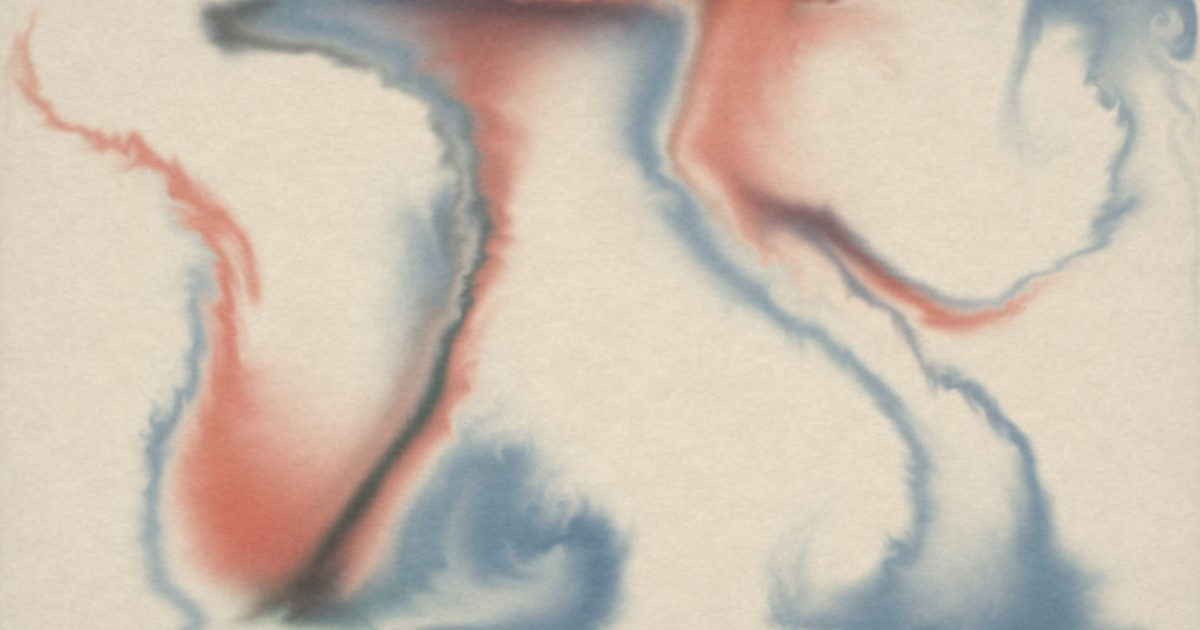
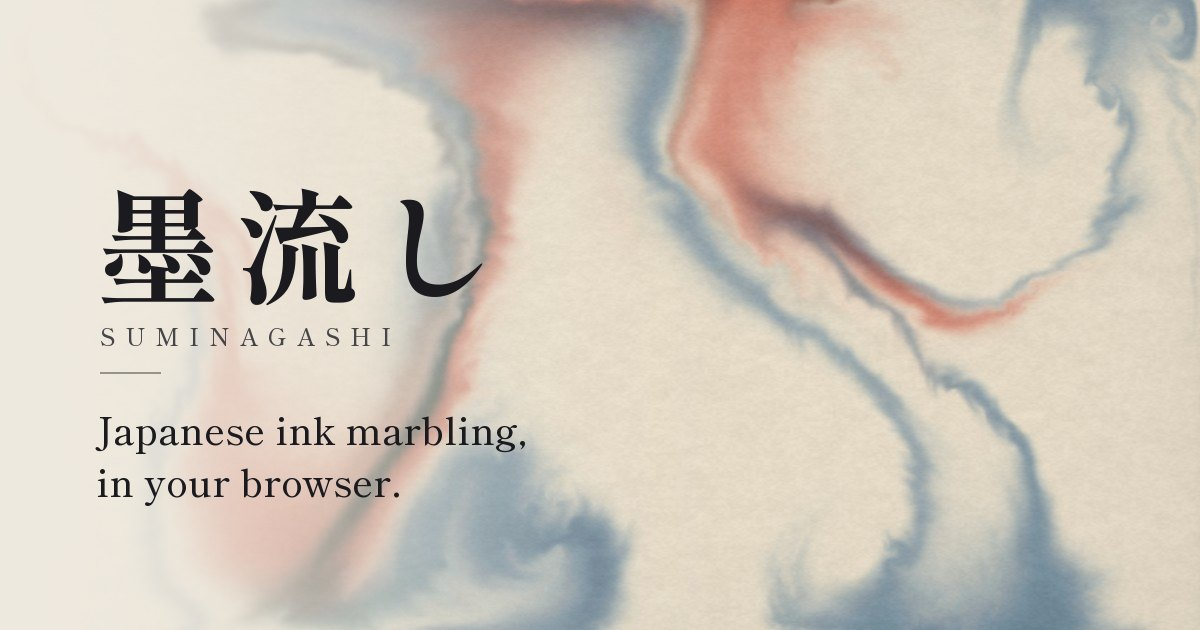
Improve search results and link previews
New page title and description, full links in social previews, a preview image with the title on it, and structured data for search engines. Browsers with JavaScript turned off now see a short message instead of a blank page.

diff --git a/index.html b/index.html
@@ -4,26 +4,61 @@
   <meta charset="UTF-8" />
   <meta name="viewport" content="width=device-width, initial-scale=1, viewport-fit=cover" />
   <meta name="color-scheme" content="light" />
-  <title>Suminagashi — 墨流し</title>
-  <meta name="description" content="An interactive simulation of suminagashi, the Japanese art of marbling paper by floating ink on water. Draw, swirl and save your own marble." />
+  <title>Suminagashi 墨流し — Japanese ink marbling in your browser</title>
+  <meta name="description" content="Float ink on water and swirl it into marbled patterns. A free, real-time simulation of suminagashi, the Japanese art of ink marbling. Save and share yours." />
+  <link rel="canonical" href="%SITE_URL%/" />
   <meta name="theme-color" content="#efeae0" />
+
   <meta property="og:type" content="website" />
-  <meta property="og:title" content="Suminagashi — interactive ink marbling" />
-  <meta property="og:description" content="Float ink on water, swirl it into patterns, and share your marble. A real-time GPU fluid simulation." />
-  <meta property="og:image" content="/og-image.jpg" />
+  <meta property="og:site_name" content="Suminagashi" />
+  <meta property="og:url" content="%SITE_URL%/" />
+  <meta property="og:title" content="Suminagashi — float ink on water" />
+  <meta property="og:description" content="A real-time Japanese ink-marbling simulation. Draw, swirl and share your marble." />
+  <meta property="og:image" content="%SITE_URL%/og-image.jpg" />
   <meta property="og:image:type" content="image/jpeg" />
   <meta property="og:image:width" content="1200" />
   <meta property="og:image:height" content="630" />
+  <meta property="og:image:alt" content="Red and indigo ink marbled on cream paper, titled 墨流し Suminagashi" />
   <meta name="twitter:card" content="summary_large_image" />
-  <meta name="twitter:title" content="Suminagashi — interactive ink marbling" />
-  <meta name="twitter:description" content="Float ink on water, swirl it into patterns, and share your marble." />
-  <meta name="twitter:image" content="/og-image.jpg" />
+  <meta name="twitter:title" content="Suminagashi — float ink on water" />
+  <meta name="twitter:description" content="A real-time Japanese ink-marbling simulation. Draw, swirl and share your marble." />
+  <meta name="twitter:image" content="%SITE_URL%/og-image.jpg" />
+  <meta name="twitter:image:alt" content="Red and indigo ink marbled on cream paper, titled 墨流し Suminagashi" />
+
+  <link rel="icon" href="/favicon.ico" sizes="32x32" />
   <link rel="icon" type="image/svg+xml" href="/favicon.svg" />
+  <link rel="apple-touch-icon" href="/apple-touch-icon.png" />
+  <link rel="manifest" href="/manifest.webmanifest" />
+  <meta name="mobile-web-app-capable" content="yes" />
+  <meta name="apple-mobile-web-app-capable" content="yes" />
+  <meta name="apple-mobile-web-app-title" content="Suminagashi" />
+  <meta name="apple-mobile-web-app-status-bar-style" content="default" />
+
   <link rel="preload" href="/fonts/shippori-mincho-latin-500-normal.woff2" as="font" type="font/woff2" crossorigin />
   <link rel="preload" href="/fonts/shippori-mincho-title-700.woff2" as="font" type="font/woff2" crossorigin />
+
+  <script type="application/ld+json">
+    {
+      "@context": "https://schema.org",
+      "@type": "WebApplication",
+      "name": "Suminagashi",
+      "alternateName": "墨流し",
+      "url": "%SITE_URL%/",
+      "image": "%SITE_URL%/og-image.jpg",
+      "description": "A free, real-time simulation of suminagashi, the Japanese art of ink marbling. Float ink on water, swirl it into patterns, then save or share the result.",
+      "applicationCategory": "DesignApplication",
+      "operatingSystem": "Any",
+      "browserRequirements": "Requires WebGL 2",
+      "offers": { "@type": "Offer", "price": "0", "priceCurrency": "USD" },
+      "author": { "@type": "Person", "name": "Martin Marinov" }
+    }
+  </script>
 </head>
 <body>
   <div id="root"></div>
+  <noscript>
+    <p class="noscript">Suminagashi 墨流し is an interactive simulation of Japanese ink marbling. It needs JavaScript and WebGL 2 to run.</p>
+  </noscript>
   <script type="module" src="/src/main.tsx"></script>
 </body>
 </html>

diff --git a/src/styles.css b/src/styles.css
@@ -120,6 +120,7 @@ button:disabled{cursor:default}
   font-size:14px;line-height:1.8;color:var(--ink-2);
 }
 .notice p+p{margin-top:10px}
+.noscript{position:fixed;inset:0;display:grid;place-items:center;padding:24px;text-align:center;font-size:15px;line-height:1.8;color:var(--ink-2)}
 .reload{
   margin-top:16px;padding:11px 28px;border-radius:999px;
   background:var(--sumi);color:var(--paper);font-size:12px;letter-spacing:.16em;
